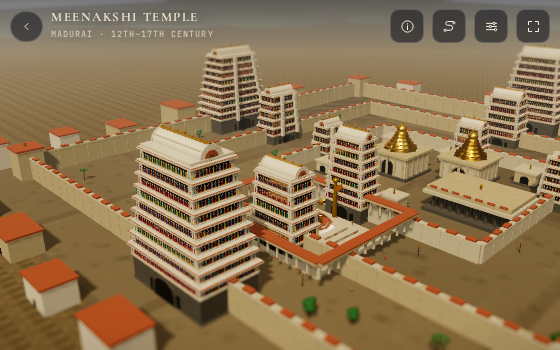
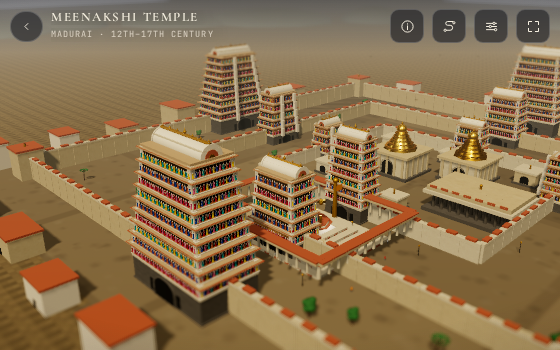
Meenakshi: figures with bodies, and cornices that stop shouting
The gopurams read as striped office blocks because each figure was 2.24 m tall
and 1.06 m apart — pencils on a shelf. Every cross-section is widened about 1.5x
so a figure has a dhoti, a torso, arms, a head and a crown, spacing came in to
1.06 m, and the cornice dropped from 22% of each storey to 16%.

The cornices were also 'cream' against ochre walls, so every storey was capped
by a bright white band. They are a shade darker than the wall now and read as
shadowed mouldings rather than stripes.

688k triangles. That is the ceiling for this page: the build already needs
80-120 s under software rendering and another jali tier will not boot.

Changed region(s): [[0.2125, 0.1429, 0.6982, 0.8571], [0.7893, 0.1429, 1.0, 0.4286], [0.9411, 0.4286, 1.0, 0.5714]]

diff --git a/assets/js/monuments/meenakshi-temple.js b/assets/js/monuments/meenakshi-temple.js
@@ -85,7 +85,10 @@ export default {
        and a green, on ochre stucco. The old five stone greys read as stripes. */
     const FIG = ['red', 'yellow', 'blue', 'pinkPaint', 'teal', 'terracotta'];
     const CREAM = (() => { const mm = ctx.mat('sandstoneBuff'); if (!mm || !mm.clone) return 'sandstoneBuff'; const c = mm.clone(); c.color.setHex(0xd8b98e); return c; })();   // the ochre stucco of the storey walls
-    const CORN = 'cream';            // the pale moulded cornices between them
+    // The cornices were 'cream' (0xe6d6b8) while the walls are ochre, so every
+    // storey was capped by a bright white band and the tower read as a striped
+    // cake. A shade darker than the wall makes them read as shadowed mouldings.
+    const CORN = (() => { const mm = ctx.mat('cream'); if (!mm || !mm.clone) return 'cream'; const c = mm.clone(); c.color.setHex(0xbfa076); return c; })();
     // the recess the figure rows stand in: shadowed ochre, not black — a pure
     // black band read as a painted stripe across every storey
     const NICHE = (() => { const mm = ctx.mat('plaster'); if (!mm || !mm.clone) return 'dark'; const c = mm.clone(); c.color.setHex(0x3b2b21); return c; })();
@@ -119,7 +122,7 @@ export default {
 
       let w = W, d = D, y = BASEH;
       for (let i = 0; i < nT; i++) {
-        const bodyH = tierH * 0.78, cornH = tierH * 0.22;
+        const bodyH = tierH * 0.84, cornH = tierH * 0.16;
         /* sculpted wall */
         block(CREAM, w, bodyH, d, cx, y, cz, { ry });
         /* dense rows of stucco figures on all four faces. A figure is seven
@@ -131,7 +134,7 @@ export default {
            niche box per figure: same read, a fraction of the geometry. */
         const fh = bodyH * 0.68;
         const fy0 = y + bodyH * 0.15;
-        const sp = 1.10;   // dense: a real register almost touches, figure to figure
+        const sp = 1.06;   // dense: a real register almost touches, figure to figure
         const nL = Math.max(4, Math.round(w / sp));
         const nS = Math.max(3, Math.round(d / sp));
         const sL = w / nL, sS = d / nS;
@@ -147,13 +150,13 @@ export default {
             add(k, geo, px + lx * cs2 + lz * sn2, ly, pz - lx * sn2 + lz * cs2,
               Object.assign({ ry: ryF }, o));
           };
-          put(CREAM, box(0.64, 0.07, 0.46), 0, fy0 + 0.035, 0.08);                  // its ledge
-          put(key, cyl(0.17, 0.25, H * 0.30, 5), 0, fy0 + H * 0.21, 0.07);          // dhoti
-          put(key, cyl(0.20, 0.145, H * 0.32, 5), 0, fy0 + H * 0.52, 0.07);         // torso to shoulders
-          put('ivory', cyl(0.042, 0.05, H * 0.30, 4), -0.185, fy0 + H * 0.50, 0.08, { rz: 0.12 });
-          put('ivory', cyl(0.042, 0.05, H * 0.30, 4), 0.185, fy0 + H * 0.50, 0.08, { rz: -0.12 });
-          put('ivory', cyl(0.105, 0.115, H * 0.13, 5), 0, fy0 + H * 0.745, 0.06);   // head
-          put('gold', cyl(0.05, 0.09, H * 0.11, 5), 0, fy0 + H * 0.86, 0.05);       // crown
+          put(CREAM, box(0.96, 0.07, 0.52), 0, fy0 + 0.035, 0.09);                  // its ledge
+          put(key, cyl(0.26, 0.36, H * 0.30, 5), 0, fy0 + H * 0.21, 0.08);          // dhoti
+          put(key, cyl(0.30, 0.22, H * 0.32, 5), 0, fy0 + H * 0.52, 0.08);          // torso to shoulders
+          put('ivory', cyl(0.060, 0.075, H * 0.30, 4), -0.27, fy0 + H * 0.50, 0.09, { rz: 0.12 });
+          put('ivory', cyl(0.060, 0.075, H * 0.30, 4), 0.27, fy0 + H * 0.50, 0.09, { rz: -0.12 });
+          put('ivory', cyl(0.15, 0.16, H * 0.13, 5), 0, fy0 + H * 0.745, 0.07);     // head
+          put('gold', cyl(0.07, 0.13, H * 0.11, 5), 0, fy0 + H * 0.86, 0.06);       // crown
         };
         for (let j = 0; j < nL; j++) {
           const off = (j - (nL - 1) / 2) * sL;

diff --git a/monuments/meenakshi-temple.html b/monuments/meenakshi-temple.html
@@ -8,8 +8,8 @@
 <meta name="theme-color" content="#d4544a">
 <meta name="author" content="Dr Sohil Momin">
 <link rel="icon" href="../assets/img/favicon.svg" type="image/svg+xml">
-<link rel="stylesheet" href="../assets/css/fonts.css?v=3a0cde4976">
-<link rel="stylesheet" href="../assets/css/monument.css?v=3a0cde4976">
+<link rel="stylesheet" href="../assets/css/fonts.css?v=8f8b1f6a43">
+<link rel="stylesheet" href="../assets/css/monument.css?v=8f8b1f6a43">
 <meta property="og:type" content="website">
 <meta property="og:title" content="Meenakshi Temple — 3D miniature · INDIA">
 <meta property="og:description" content="Fourteen painted gopurams above the Vaigai at Madurai, a temple city dedicated to Meenakshi and Sundareswarar.">
@@ -31,11 +31,11 @@
 <div id="app"></div>
 <noscript><div class="noscript">This page renders Meenakshi Temple as a live 3D model and needs JavaScript and WebGL. You can still read about the monument on <a href="https://en.wikipedia.org/wiki/Meenakshi_Temple">Wikipedia</a>.</div></noscript>
 
-<script src="../assets/js/index-data.js?v=3a0cde4976"></script>
+<script src="../assets/js/index-data.js?v=8f8b1f6a43"></script>
 <script>window.MONUMENT_DATA = {"name": "Meenakshi Temple", "deva": "मीनाक्षी मंदिर", "place": "Madurai", "state": "Tamil Nadu", "era": "Pandya and Vijayanagara · 12th–17th c.", "period": "12th–17th century", "style": "Dravidian", "unesco": "—", "wikipedia": "https://en.wikipedia.org/wiki/Meenakshi_Temple", "history": ["The Meenakshi Sundareswarar temple stands on the southern bank of the Vaigai at Madurai, dedicated to Meenakshi, a form of Parvati, and her consort Sundareswarar, Shiva. Sangam literature describes the temple city; the earliest structures date from Pandya rule in the 12th and 13th centuries.", "Much of the present complex was rebuilt in the 14th century and enlarged under the Vijayanagara Empire and the Nayaks, who added the great gopurams, the pillared halls and the Golden Lotus tank. Fourteen gopurams rise above the streets, the tallest nearly 52 metres high, covered in thousands of painted stucco figures.", "Inside are the Hall of a Thousand Pillars, the Potramarai tank where pilgrims bathe, and shrines to both deities. The temple remains a working centre of Tamil religious life, with around 33,000 sculptures across the complex and daily processions through the streets of the old city."], "facts": [{"k": "Dedicated to", "v": "Meenakshi and Sundareswarar"}, {"k": "Early structures", "v": "12th–13th century, Pandya"}, {"k": "Expanded by", "v": "Vijayanagara and Nayak rulers"}, {"k": "Gopurams", "v": "Fourteen, the tallest about 52 m"}, {"k": "Inside", "v": "Hall of a Thousand Pillars, Golden Lotus tank"}, {"k": "City", "v": "Madurai, on the Vaigai"}], "links": [{"label": "Wikipedia", "href": "https://en.wikipedia.org/wiki/Meenakshi_Temple"}, {"label": "Tamil Nadu tourism", "href": "https://www.tamilnadutourism.tn.gov.in/"}, {"label": "Madurai district", "href": "https://madurai.nic.in/"}], "image": {"file": "Meenakshi Temple, Gopuram, Madurai, India.jpg", "artist": "Vyacheslav Argenberg", "license": "CC BY 4.0", "licenseUrl": "https://creativecommons.org/licenses/by/4.0", "page": "https://commons.wikimedia.org/wiki/File:Meenakshi_Temple,_Gopuram,_Madurai,_India.jpg", "src": "assets/img/meenakshi-temple.jpg"}};</script>
 <script type="module">
-  import { boot } from '../assets/js/monument-engine.js?v=3a0cde4976';
-  import monument from '../assets/js/monuments/meenakshi-temple.js?v=3a0cde4976';
+  import { boot } from '../assets/js/monument-engine.js?v=8f8b1f6a43';
+  import monument from '../assets/js/monuments/meenakshi-temple.js?v=8f8b1f6a43';
   boot(monument);
 </script>
 </body>

diff --git a/HANDOFF.md b/HANDOFF.md
@@ -393,10 +393,17 @@ Two more pages read wrong on the fresh contact sheet:
   materials were literally named `sandstonePink` and `sandstoneRed`. They are
   lime plaster over rubble: pale warm ochre. Both are tinted off `cream` now.
 
-Still on the list: **Meenakshi's gopurams** read as striped office blocks at
-distance — the painted figure registers do not carry at 560 px. That needs the
-tier walls broken up (darker recess bands, more colour contrast), not another
-colour pass.
+**Meenakshi's gopurams** — done. They read as striped office blocks because the
+figures were 2.24 m tall and 1.06 m apart: **pencils on a shelf**. Every
+cross-section is widened about 1.5x (dhoti, torso, arms, head, crown, ledge) so
+a figure has a body, spacing came in to 1.06 m, and the cornice went from 22 %
+of each storey to 16 %. The cornices were also `cream` (0xe6d6b8) against ochre
+walls, so every storey was capped by a bright white band — they are a shade
+darker than the wall now and read as shadowed mouldings.
+
+688k triangles, boot 80-120 s. That is close to the ceiling: the page takes
+three attempts' worth of waiting under software rendering, and another tier's
+worth of jali would not boot at all.
 
 ---
 
